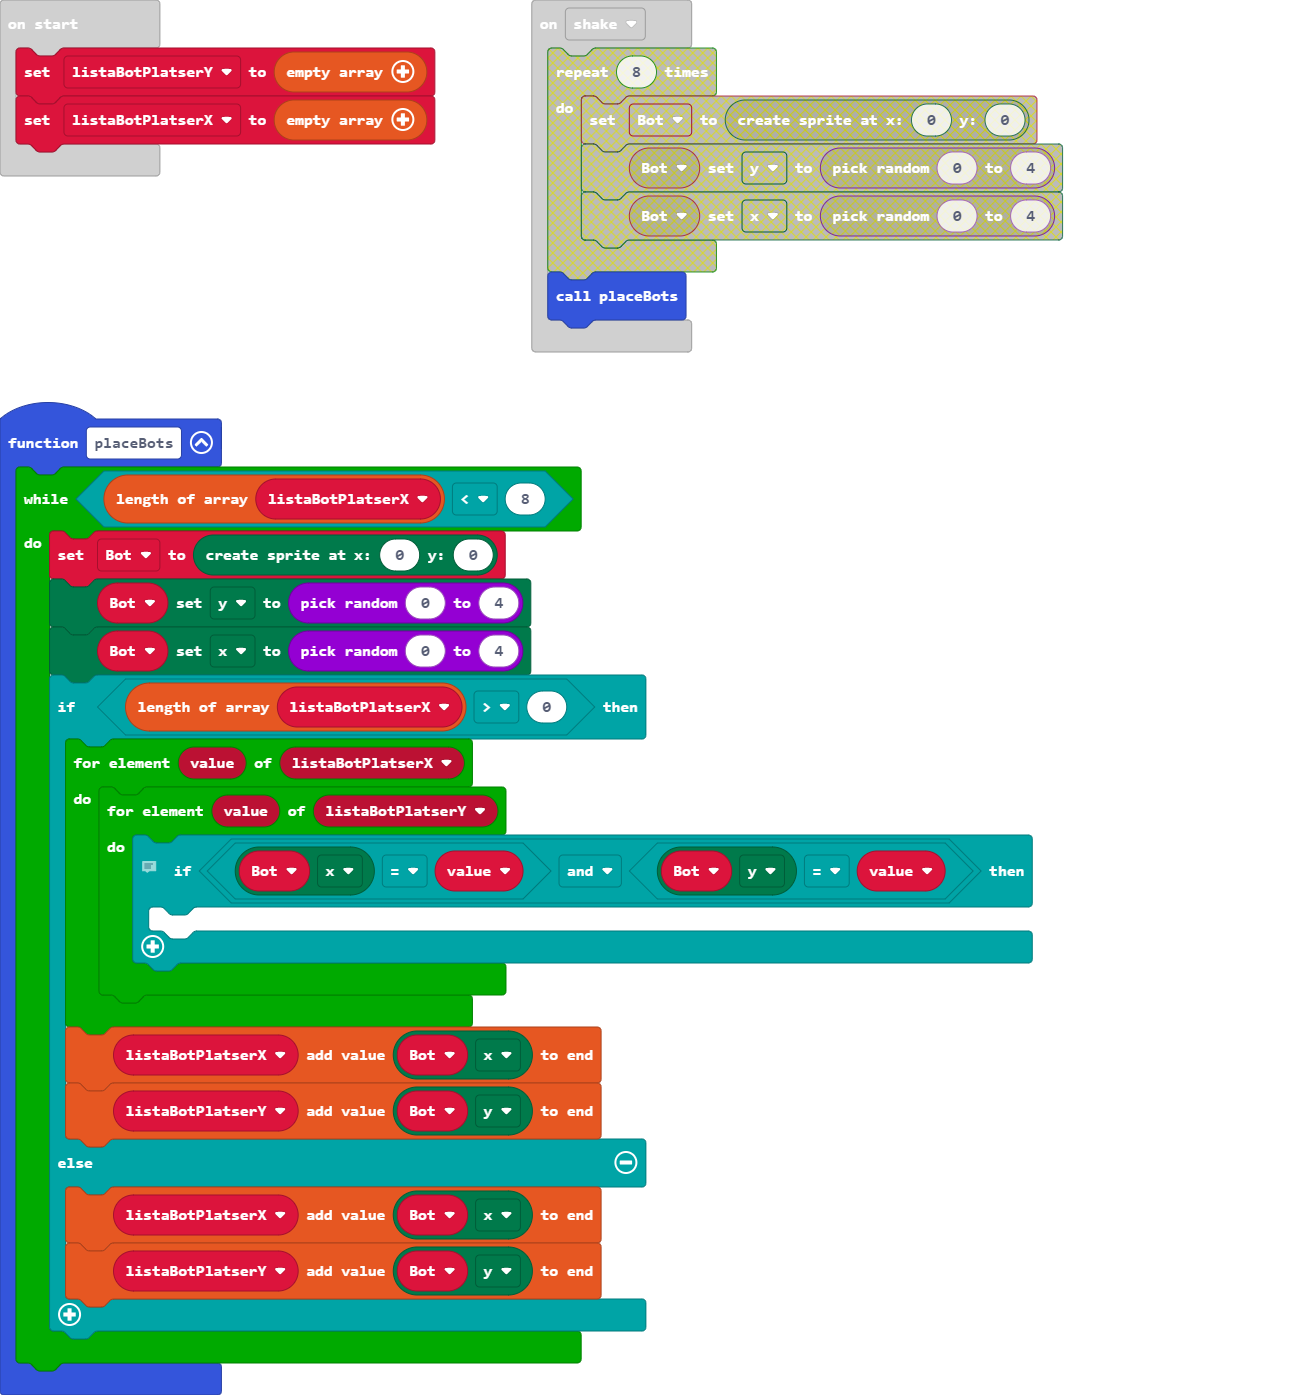
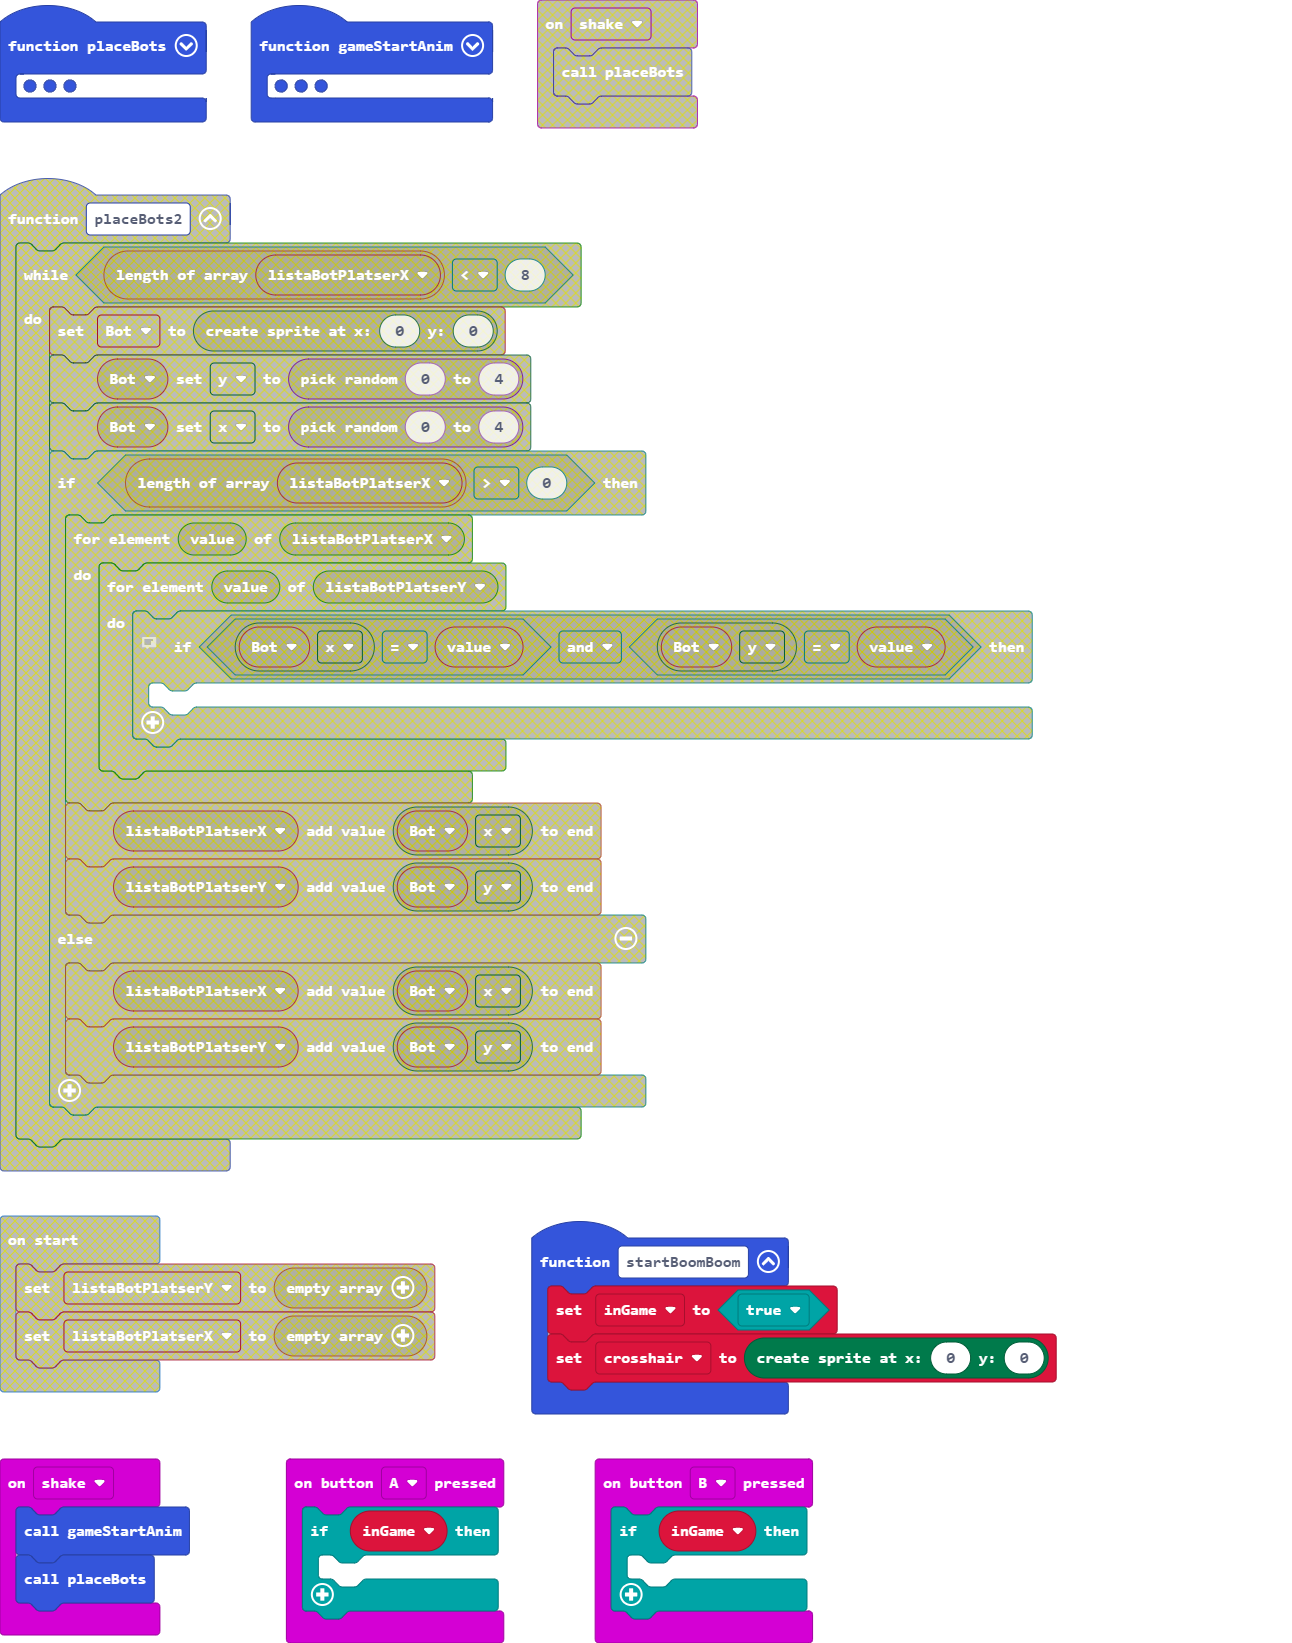
bot boat skiten funkar

diff --git a/main.ts b/main.ts
@@ -1,30 +1,74 @@
+let inGame = false
+let crosshair: game.LedSprite = null
+let listaBotPlatserX: number[] = []
+let listaBotPlatserY: number[] = []
+let a = 0
+let b = 0
+let match = false
+function gameStartAnim () {
+    for (let index = 0; index < 2; index++) {
+        basic.showLeds(`
+            . . . . .
+            . . . . .
+            . . # . .
+            . . . . .
+            . . . . .
+            `)
+        basic.showLeds(`
+            . . . . .
+            . # # # .
+            . # . # .
+            . # # # .
+            . . . . .
+            `)
+        basic.showLeds(`
+            # # # # #
+            # . . . #
+            # . . . #
+            # . . . #
+            # # # # #
+            `)
+    }
+    basic.clearScreen()
+}
+input.onButtonPressed(Button.A, function () {
+    if (inGame) {
+    	
+    }
+})
+function startBoomBoom () {
+    inGame = true
+    crosshair = game.createSprite(0, 0)
+}
+input.onButtonPressed(Button.B, function () {
+    if (inGame) {
+    	
+    }
+})
 input.onGesture(Gesture.Shake, function () {
+    gameStartAnim()
     placeBots()
 })
 function placeBots () {
+    listaBotPlatserX = []
+    listaBotPlatserY = []
     while (listaBotPlatserX.length < 8) {
-        Bot = game.createSprite(0, 0)
-        Bot.set(LedSpriteProperty.Y, randint(0, 4))
-        Bot.set(LedSpriteProperty.X, randint(0, 4))
-        if (listaBotPlatserX.length > 0) {
-            for (let value of listaBotPlatserX) {
-                for (let value of listaBotPlatserY) {
-                    // fixa sen
-                    if (Bot.get(LedSpriteProperty.X) == value && Bot.get(LedSpriteProperty.Y) == value) {
-                    	
-                    }
+        a = randint(0, 4)
+        b = randint(0, 4)
+        if (0 == listaBotPlatserX.length) {
+            listaBotPlatserX.push(a)
+            listaBotPlatserY.push(b)
+        } else {
+            match = false
+            for (let index = 0; index <= listaBotPlatserX.length; index++) {
+                if (a == listaBotPlatserX[index] && b == listaBotPlatserY[index]) {
+                    match = true
                 }
             }
-            listaBotPlatserX.push(Bot.get(LedSpriteProperty.X))
-            listaBotPlatserY.push(Bot.get(LedSpriteProperty.Y))
-        } else {
-            listaBotPlatserX.push(Bot.get(LedSpriteProperty.X))
-            listaBotPlatserY.push(Bot.get(LedSpriteProperty.Y))
+            if (!(match)) {
+                listaBotPlatserX.push(a)
+                listaBotPlatserY.push(b)
+            }
         }
     }
 }
-let Bot: game.LedSprite = null
-let listaBotPlatserX: number[] = []
-let listaBotPlatserY: number[] = []
-listaBotPlatserY = []
-listaBotPlatserX = []

diff --git a/main.py b/main.py
@@ -1,0 +1,40 @@
+listaBotPlatserX: List[number] = []
+listaBotPlatserY: List[number] = []
+def gameStartAnim():
+    for index in range(2):
+        basic.show_leds("""
+            . . . . .
+            . . . . .
+            . . # . .
+            . . . . .
+            . . . . .
+            """)
+        basic.show_leds("""
+            . . . . .
+            . # # # .
+            . # . # .
+            . # # # .
+            . . . . .
+            """)
+        basic.show_leds("""
+            # # # # #
+            # . . . #
+            # . . . #
+            # . . . #
+            # # # # #
+            """)
+def startBoomBoom():
+    pass
+
+def on_gesture_shake():
+    gameStartAnim()
+    placeBots()
+input.on_gesture(Gesture.SHAKE, on_gesture_shake)
+
+def placeBots():
+    global listaBotPlatserX, listaBotPlatserY
+    listaBotPlatserX = []
+    listaBotPlatserY = []
+    for index2 in range(8):
+        listaBotPlatserX.append(randint(0, 4))
+        listaBotPlatserY.append(randint(0, 4))
